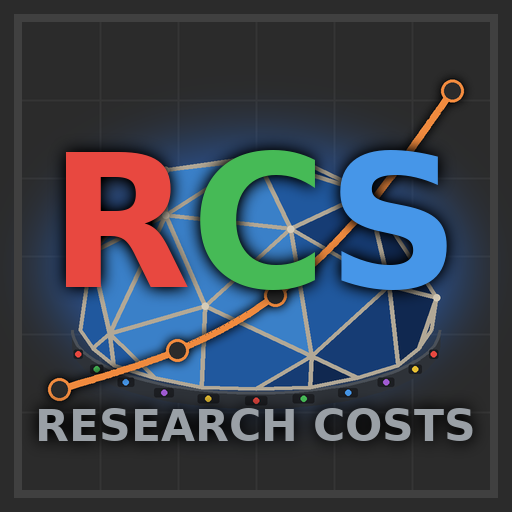
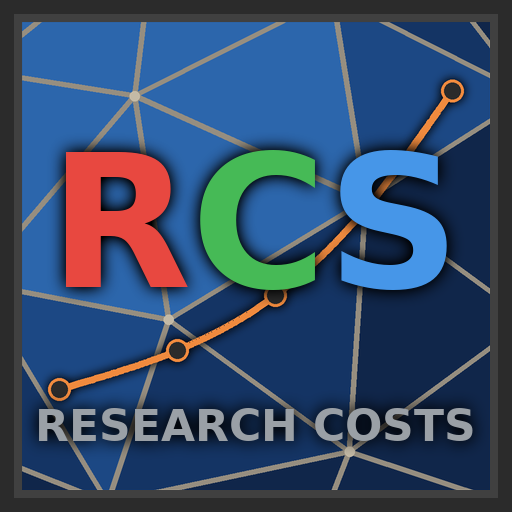
Thumbnail: the lab's glass, up close, fills the whole card
Instead of a whole lab, the pentakis dodecahedron the lab is made of is
projected so large that its front panels tile the card inside the frame:
flat blue panels, warm struts, lighter hubs. The curve and RCS sit on top.
Radius 360 is the smallest with no gaps at the corners (checked pixel by
pixel); the margin outside the frame stays plain, as on the other cards.

diff --git a/tools/gen_thumbnail.py b/tools/gen_thumbnail.py
@@ -5,17 +5,17 @@ with Multi-Team Support, Land Title Registry and Open Discord Bridge:
 grey subtitle in caps, at the same heights so the cards line up in a row on
 the author page.
 
-Three layers, back to front:
+Three layers, back to front, inside the frame:
 
-  - A research lab, as flat art. Factorio's lab is the top half of a pentakis
-    dodecahedron (a dodecahedron with a low five-sided pyramid on each face,
-    60 triangles), glowing blue while it researches, on a dark base ring. It
-    is not the game's sprite: the solid is built here, apexes pushed out to
-    the sphere so it reads as a geodesic dome, stood on one apex, cut at the
-    equator and viewed from a little above. Each panel gets one of a few flat
-    blues from a single light, and the base ring's indicator lights wear the
-    science pack colours.
-  - The cost curve, rising across the lab in the companion page's orange.
+  - A research lab's glass seen up close. Factorio's lab is a dome made from a
+    pentakis dodecahedron (a dodecahedron with a low five-sided pyramid on each
+    face, 60 triangles). The same solid is built here, apexes pushed out to the
+    sphere, and projected so large that its front panels tile the whole card:
+    flat blue panels lit from one side, warm struts, lighter hubs where they
+    meet. Drawn from geometry, not from the game's sprite. Like LTR's stripes,
+    the texture stays inside the frame.
+  - The cost curve, rising across it in the companion page's orange, with a
+    soft dark edge so it reads over the glass.
   - The mark, RCS, in the first three science pack colours, and the subtitle.
     As on LTR's card, a centred black halo separates them from what is under
     them without changing the letters themselves.
@@ -55,28 +55,27 @@ FONT = "/usr/share/fonts/truetype/dejavu/DejaVuSans-Bold.ttf"
 LETTER_SIZE = 185
 SUBTITLE_SIZE = 44
 
-GRID = (52, 52, 52)
 CURVE = (240, 138, 62)
 CURVE_WIDTH = 7
 # The curve: low and flat on the left, climbing to the top right, as a
 # "hard late game" curve looks on the page's log scale. Normalised 0..1.
 CURVE_POINTS = [(0.0, 0.16), (0.3, 0.26), (0.55, 0.40), (0.78, 0.62), (1.0, 0.92)]
 
-# The lab, in card pixels: centre of the base ring, radius, how far the viewer
-# looks down on it, and how far it is turned about its vertical axis.
-LAB_CENTRE = (256, 330)
-LAB_RADIUS = 184
-LAB_TILT = math.radians(20)
-LAB_YAW = math.radians(18)
-# Flat glass tones, darkest to brightest: a lab mid-research.
-GLASS = ((16, 40, 80), (22, 60, 116), (32, 88, 158), (58, 128, 200))
-STRUT = (178, 168, 150)
-HUB = (214, 204, 184)
-BASE = (46, 50, 56)
-BASE_EDGE = (74, 80, 88)
-GLOW = (40, 110, 220)
-LIGHT = (-0.45, 0.65, 0.6)
-PACK_LIGHTS = ((232, 72, 64), (70, 186, 86), (70, 150, 232), (160, 90, 210), (230, 190, 50))
+# The background: a lab's glass seen up close. The same pentakis dodecahedron
+# the lab is built from, projected so large that its front panels tile the
+# whole card. FACET_RADIUS is the sphere's radius in card pixels: below about
+# 360 the panels that would cover the corners face away and leave gaps.
+# PITCH and YAW turn the solid to choose which panels face the viewer.
+FACET_RADIUS = 360
+FACET_CENTRE = (256, 256)
+FACET_PITCH = math.radians(12)
+FACET_YAW = math.radians(18)
+# Flat glass tones, darkest to brightest: a lab mid-research, kept dark
+# enough to sit behind the mark.
+GLASS = ((16, 38, 74), (20, 52, 100), (28, 72, 132), (44, 102, 172))
+STRUT = (150, 142, 128)
+HUB = (196, 186, 166)
+LIGHT = (-0.5, 0.6, 0.62)
 
 PHI = (1 + 5 ** 0.5) / 2
 
@@ -120,93 +119,47 @@ def pentakis_triangles():
     return tris
 
 
-def orient(p):
-    """Stand the solid on an apex: turn (0, PHI, 1) to straight up, then yaw."""
-    t = math.atan2(1, PHI)
+def turn(p):
+    """Pitch then yaw the solid, choosing which panels face the viewer (+z)."""
     x, y, z = p
-    y, z = y * math.cos(t) + z * math.sin(t), -y * math.sin(t) + z * math.cos(t)
-    x, z = x * math.cos(LAB_YAW) + z * math.sin(LAB_YAW), -x * math.sin(LAB_YAW) + z * math.cos(LAB_YAW)
+    c, s_ = math.cos(FACET_PITCH), math.sin(FACET_PITCH)
+    y, z = y * c - z * s_, y * s_ + z * c
+    c, s_ = math.cos(FACET_YAW), math.sin(FACET_YAW)
+    x, z = x * c + z * s_, -x * s_ + z * c
     return (x, y, z)
 
 
-def clip_above_equator(poly):
-    """Sutherland-Hodgman against y >= 0: the dome is the solid's top half."""
-    out = []
-    for i, cur in enumerate(poly):
-        prev = poly[i - 1]
-        if cur[1] >= 0:
-            if prev[1] < 0:
-                t = prev[1] / (prev[1] - cur[1])
-                out.append(tuple(prev[k] + (cur[k] - prev[k]) * t for k in range(3)))
-            out.append(cur)
-        elif prev[1] >= 0:
-            t = prev[1] / (prev[1] - cur[1])
-            out.append(tuple(prev[k] + (cur[k] - prev[k]) * t for k in range(3)))
-    return out
-
-
 def project(p):
-    """Card coordinates (supersampled) for a point, seen from a little above."""
-    x, y, z = p
-    cx, cy = LAB_CENTRE
-    r = LAB_RADIUS * SUPERSAMPLE
-    return (cx * SUPERSAMPLE + r * x, cy * SUPERSAMPLE - r * (y * math.cos(LAB_TILT) - z * math.sin(LAB_TILT)))
+    """Card coordinates (supersampled), looking straight at the sphere."""
+    x, y, _ = p
+    cx, cy = FACET_CENTRE
+    r = FACET_RADIUS * SUPERSAMPLE
+    return (cx * SUPERSAMPLE + r * x, cy * SUPERSAMPLE - r * y)
 
 
-def draw_lab(img):
+def draw_facets(img):
+    """The front panels, flat-shaded back to front, then struts and hubs."""
     d = ImageDraw.Draw(img)
-    view = (0, math.sin(LAB_TILT), math.cos(LAB_TILT))
     light = normalise(LIGHT)
-    cx, cy = (c * SUPERSAMPLE for c in LAB_CENTRE)
-    r = LAB_RADIUS * SUPERSAMPLE
-
-    # Glow: the blue a working lab throws on the ground around it.
-    glow = Image.new("L", img.size, 0)
-    ImageDraw.Draw(glow).ellipse([cx - r * 1.12, cy - r * 1.02, cx + r * 1.12, cy + r * 0.34], fill=150)
-    glow = glow.filter(ImageFilter.GaussianBlur(28 * SUPERSAMPLE))
-    img.paste(Image.new("RGB", img.size, GLOW), (0, 0), glow)
-
-    # Base ring: the front half of the equator, dropped into a band, with
-    # socket lights in the science pack colours.
-    band = 16 * SUPERSAMPLE
-    equator = lambda deg: project((math.sin(math.radians(deg)), 0, math.cos(math.radians(deg))))
-    front = [equator(t) for t in range(-90, 91, 3)]
-    d.polygon(front + [(x, y + band) for x, y in reversed(front)], fill=BASE)
-    d.line(front, fill=BASE_EDGE, width=3 * SUPERSAMPLE)
-    for k, t in enumerate(range(-75, 76, 15)):
-        x, y = equator(t)
-        w = 9 * SUPERSAMPLE * math.cos(math.radians(t)) + 2 * SUPERSAMPLE
-        top = y + 3.5 * SUPERSAMPLE
-        d.rounded_rectangle([x - w, top, x + w, top + 9 * SUPERSAMPLE], radius=2 * SUPERSAMPLE, fill=(28, 30, 34))
-        lr = 3 * SUPERSAMPLE
-        mid = top + 4.5 * SUPERSAMPLE
-        d.ellipse([x - lr, mid - lr, x + lr, mid + lr], fill=PACK_LIGHTS[k % len(PACK_LIGHTS)])
-
-    # Glass panels, flat-shaded back to front, then the struts over them.
     faces = []
     for tri in pentakis_triangles():
-        poly = clip_above_equator([orient(v) for v in tri])
-        if len(poly) < 3:
-            continue
-        normal = normalise(tuple(sum(v[i] for v in (orient(u) for u in tri)) for i in range(3)))
-        facing = dot(normal, view)
-        if facing <= 0:
+        pts = [turn(v) for v in tri]
+        normal = normalise(tuple(sum(p[i] for p in pts) for i in range(3)))
+        if normal[2] <= 0:
             continue
         shade = max(0.0, dot(normal, light))
         tone = GLASS[min(len(GLASS) - 1, int(shade * len(GLASS)))]
-        faces.append((facing, [project(p) for p in poly], tone))
+        faces.append((normal[2], [project(p) for p in pts], tone))
     faces.sort(key=lambda f: f[0])
     for _, poly, tone in faces:
         d.polygon(poly, fill=tone)
     hubs = set()
     for _, poly, _ in faces:
-        d.line(poly + [poly[0]], fill=STRUT, width=4 * SUPERSAMPLE, joint="curve")
+        d.line(poly + [poly[0]], fill=STRUT, width=5 * SUPERSAMPLE, joint="curve")
         hubs.update((round(x), round(y)) for x, y in poly)
-    hr = 3.5 * SUPERSAMPLE
-    base_y = cy
+    hr = 5 * SUPERSAMPLE
     for x, y in hubs:
-        if y < base_y - 2 * SUPERSAMPLE:  # clipped points on the equator are not hubs
-            d.ellipse([x - hr, y - hr, x + hr, y + hr], fill=HUB)
+        d.ellipse([x - hr, y - hr, x + hr, y + hr], fill=HUB)
 
 
 def smooth(points, steps=64):
@@ -229,15 +182,6 @@ def smooth(points, steps=64):
 def inner_box():
     lo = (FRAME_INSET + FRAME_WIDTH) * SUPERSAMPLE
     return lo, S - lo
-
-
-def draw_grid(img):
-    d = ImageDraw.Draw(img)
-    lo, hi = inner_box()
-    for i in range(1, 6):
-        v = lo + (hi - lo) * i / 6
-        d.line([(v, lo), (v, hi)], fill=GRID, width=2 * SUPERSAMPLE)
-        d.line([(lo, v), (hi, v)], fill=GRID, width=2 * SUPERSAMPLE)
 
 
 def draw_curve(img):
@@ -280,8 +224,14 @@ def glow_for(layer):
 
 def build():
     big = Image.new("RGB", (S, S), BG)
-    draw_grid(big)
-    draw_lab(big)
+    # The texture stays inside the frame, as LTR's stripes do; the margin
+    # outside it is plain ground like every card in the row.
+    facets = Image.new("RGB", (S, S), BG)
+    draw_facets(facets)
+    lo, hi = inner_box()
+    inside = Image.new("L", (S, S), 0)
+    ImageDraw.Draw(inside).rectangle([lo, lo, hi, hi], fill=255)
+    big.paste(facets, (0, 0), inside)
     draw_curve(big)
     img = big.resize((SIZE, SIZE), Image.Resampling.LANCZOS)
 
